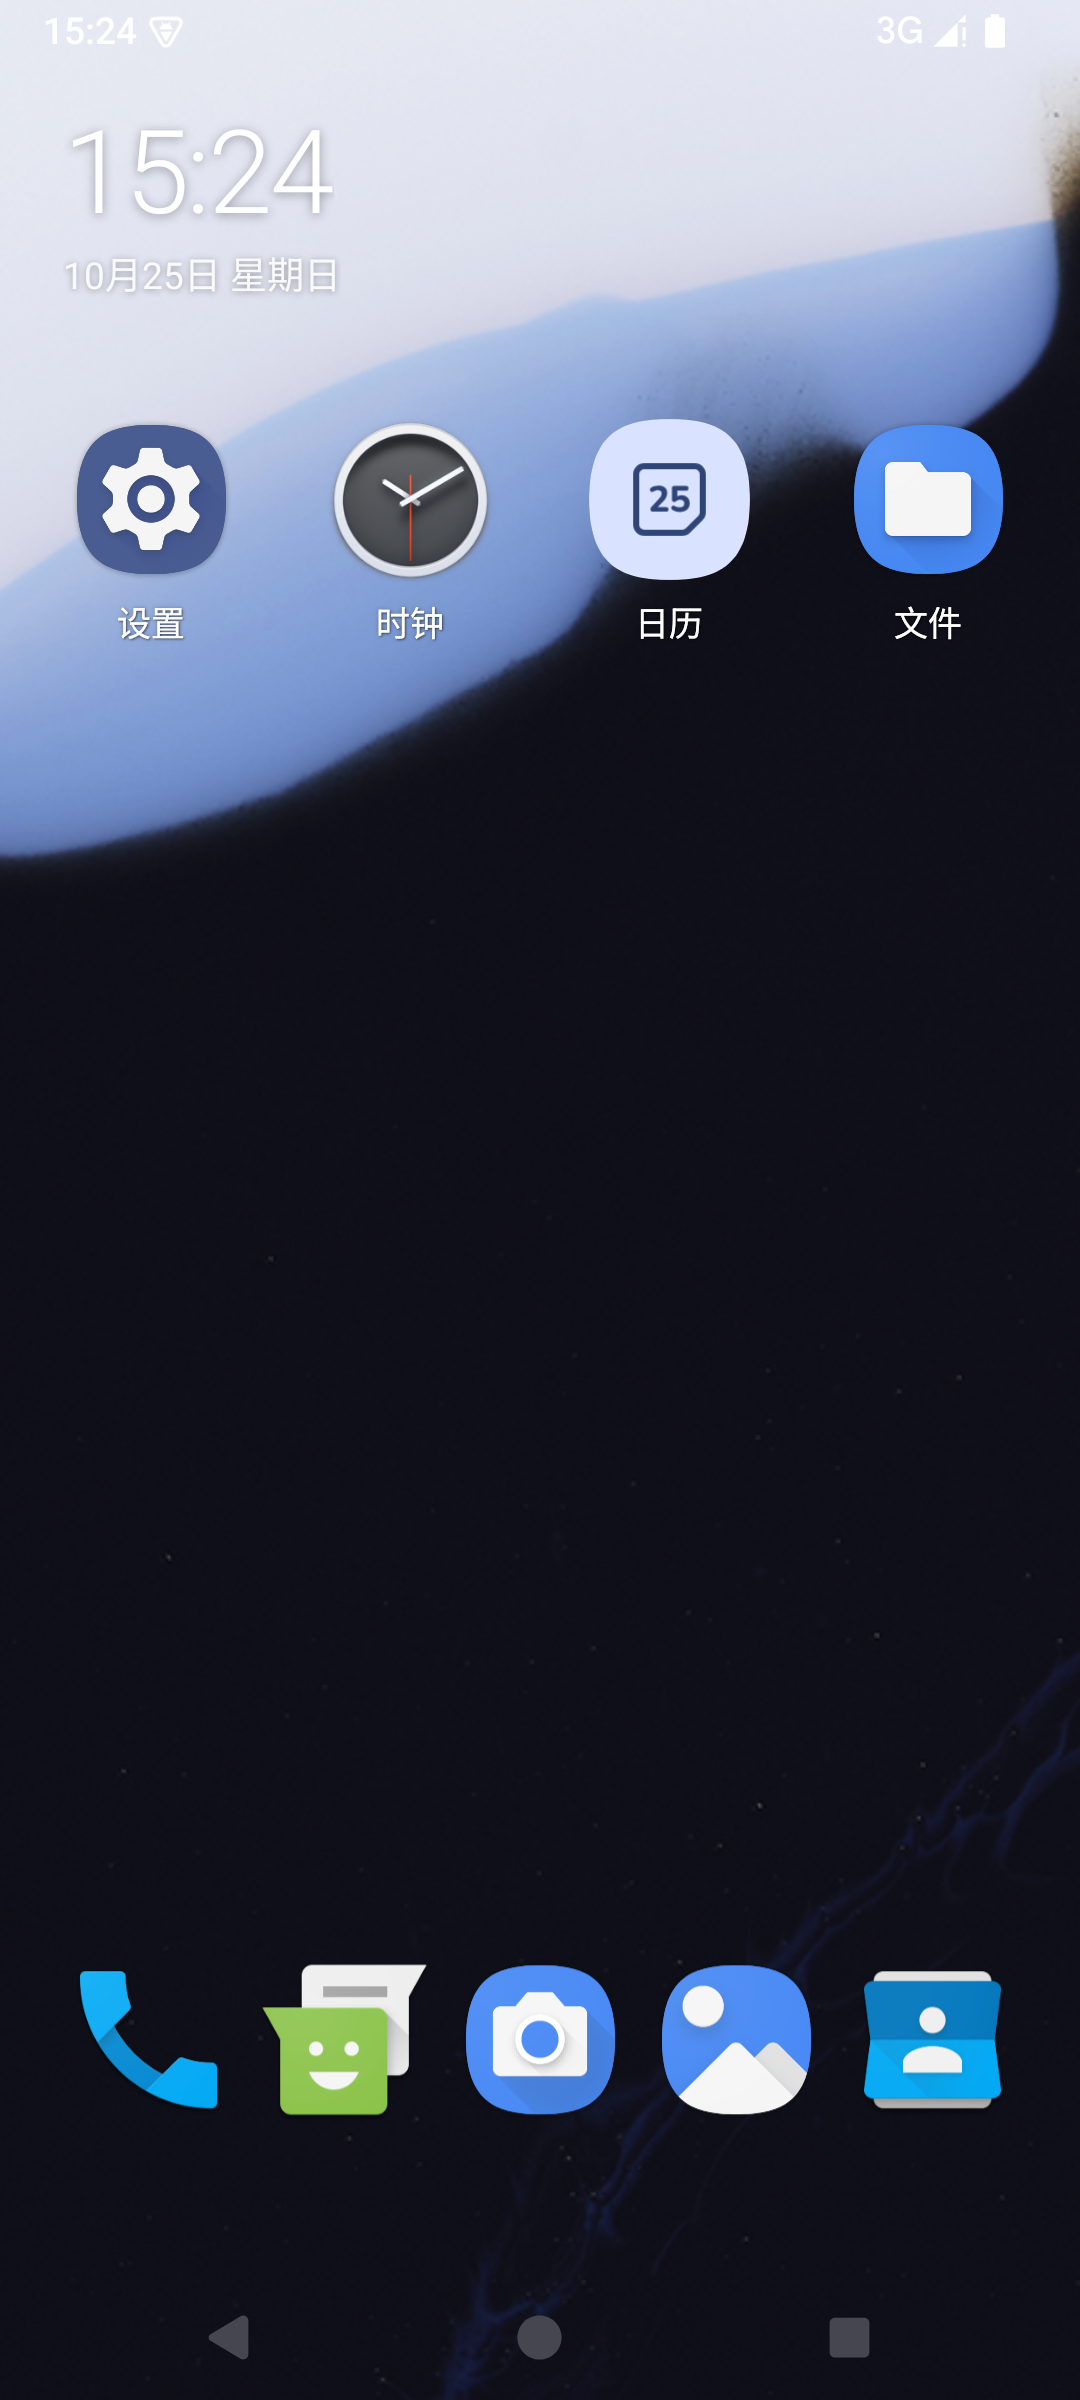
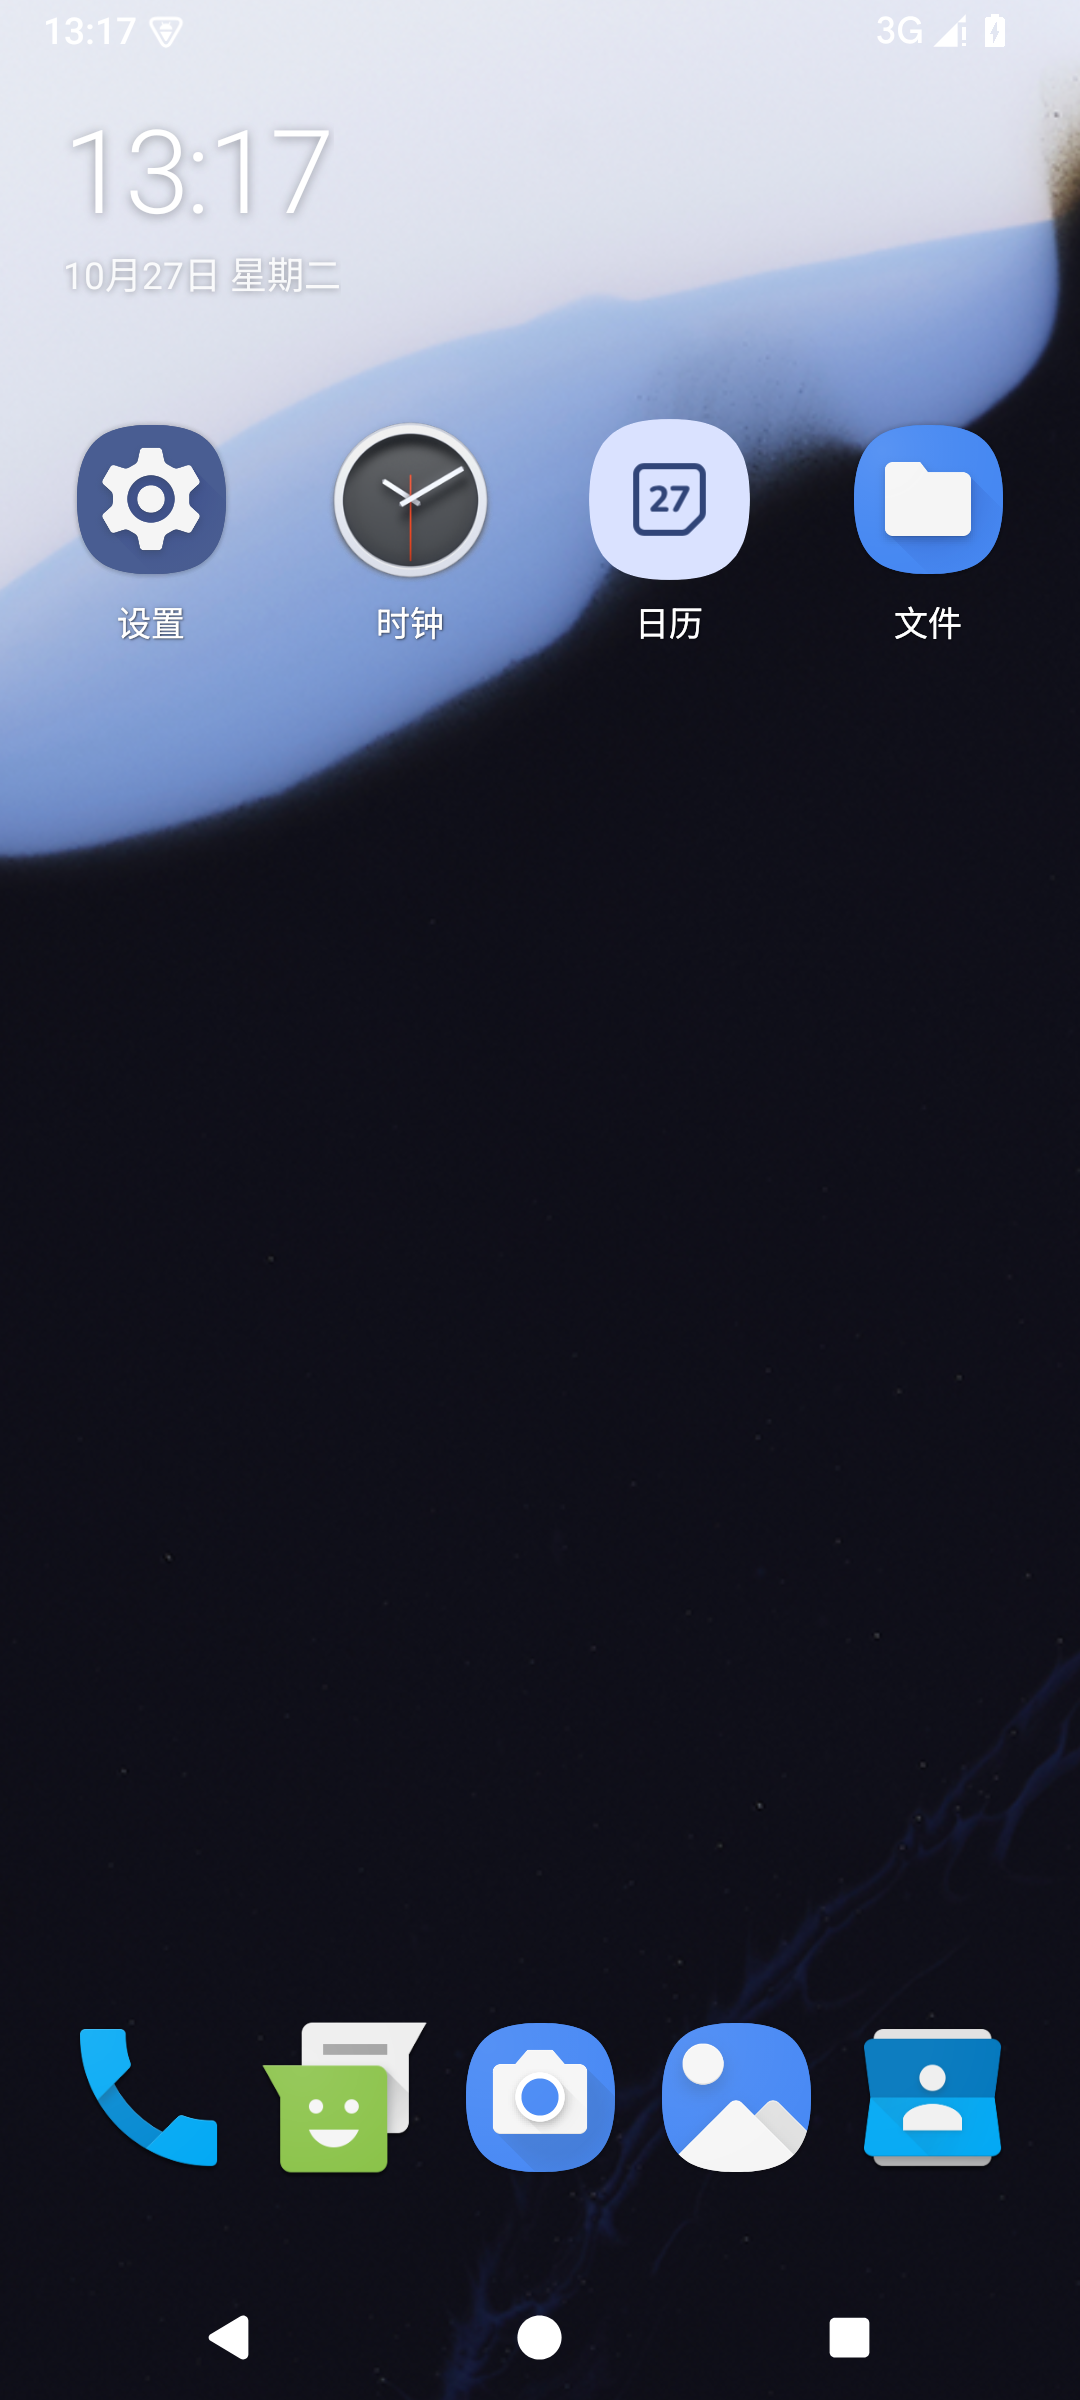
时钟: 跟随 Workspace 首页滚动

diff --git a/lawnchair/src/app/lawnchair/views/OneUiClockView.kt b/lawnchair/src/app/lawnchair/views/OneUiClockView.kt
@@ -1,0 +1,64 @@
+package app.lawnchair.views
+
+import android.content.Context
+import android.util.AttributeSet
+import android.view.View
+import android.view.ViewTreeObserver
+import android.widget.LinearLayout
+import com.android.launcher3.R
+
+/**
+ * One UI style clock / date block shown at the top of the first workspace page.
+ *
+ * This is still a plain view rather than an app widget (see
+ * docs/refactor/HANDOVER.md, "时钟 AppWidget"), but it already behaves like a
+ * page item: it is anchored to the left edge of page 0 and shifts horizontally
+ * with the workspace scroll, so swiping to another page carries it off screen
+ * and swiping back brings it in again.
+ *
+ * The offset is read once per frame in an [ViewTreeObserver.OnPreDrawListener]
+ * instead of a scroll listener so it also works when the workspace is restored
+ * to a page before the view is attached, and it stays in sync with the frame
+ * that is about to be drawn.
+ *
+ * Once the real widget host lands this class can be replaced by an
+ * [android.appwidget.AppWidgetHostView] without touching the launcher layout.
+ */
+class OneUiClockView @JvmOverloads constructor(
+    context: Context,
+    attrs: AttributeSet? = null,
+    defStyleAttr: Int = 0,
+) : LinearLayout(context, attrs, defStyleAttr) {
+
+    private var lastScrollX = Int.MIN_VALUE
+    private var preDrawListener: ViewTreeObserver.OnPreDrawListener? = null
+    private var preDrawObserver: ViewTreeObserver? = null
+
+    override fun onAttachedToWindow() {
+        super.onAttachedToWindow()
+        val ws = rootView.findViewById<View>(R.id.workspace) ?: return
+        syncTranslation(ws.scrollX)
+
+        preDrawObserver = viewTreeObserver.also { observer ->
+            preDrawListener = ViewTreeObserver.OnPreDrawListener {
+                val scrollX = ws.scrollX
+                if (scrollX != lastScrollX) {
+                    syncTranslation(scrollX)
+                }
+                true
+            }.also(observer::addOnPreDrawListener)
+        }
+    }
+
+    override fun onDetachedFromWindow() {
+        preDrawListener?.let { preDrawObserver?.removeOnPreDrawListener(it) }
+        preDrawListener = null
+        preDrawObserver = null
+        super.onDetachedFromWindow()
+    }
+
+    private fun syncTranslation(scrollX: Int) {
+        lastScrollX = scrollX
+        translationX = -scrollX.toFloat()
+    }
+}

diff --git a/docs/refactor/HANDOVER.md b/docs/refactor/HANDOVER.md
@@ -2,7 +2,7 @@
 
 > 更新时间：2026-10-27
 > 工作目录：`E:\OneDrive\家里台式\桌面\temp\OneUi_Desktop`
-> 分支：`main`，当前 HEAD `c57d1ba`（以 `git log` 为准）
+> 分支：`main`（HEAD 以 `git log` 为准）
 > 架构与设计取舍见 [ARCHITECTURE.md](./ARCHITECTURE.md)，SESL 取舍见 [SESL-DECISION.md](./SESL-DECISION.md)。
 
 ---
@@ -10,9 +10,9 @@
 ## 1. 一句话状态
 
 底层 Launcher3 / Lawnchair 15 已经能构建、能装、能当默认桌面；首屏 4×6 + 5 Dock
-+ 时钟覆盖层完成；应用抽屉的**底部搜索胶囊**（One UI 8.0 样式）已完成并在模拟器
-验证布局、三点菜单、键盘避让和输入态背景保持。下一步是时钟 AppWidget、抽屉分组、
-自定义排序、设置页卡片化和动画复刻。
++ **随页面滑动的时钟覆盖层**完成；应用抽屉的**底部搜索胶囊**（One UI 8.0 样式）已完成
+并在模拟器验证布局、三点菜单、键盘避让和输入态背景保持。下一步是时钟 AppWidget、
+抽屉分组、自定义排序、设置页卡片化和动画复刻。
 
 当前 APK：
 
@@ -34,14 +34,14 @@ build\outputs\apk\lawnWithQuickstepGithub\debug\*.apk
 | 应用身份 | `com.oneui.desktop`、显示名「OneUI 桌面」、无 `.debug` 后缀 | `build.gradle` |
 | 网格 | 4 列 × 6 行、Dock 5 位，DB 名 `launcher_6_4_5.db` | `device_profiles.xml`、`PreferenceManager.kt` |
 | 首屏 | 第 0 行留空给时钟；第 1 行 4 图标；Dock 5 图标 | `default_workspace_4x6.xml` |
-| 时钟 | 44sp 时间 + 14sp 中文日期覆盖层（非 AppWidget） | `lawnchair/res/layout/launcher.xml` |
+| 时钟 | 44sp 时间 + 14sp 中文日期，随 Workspace 页面滚动（非 AppWidget） | `lawnchair/res/layout/launcher.xml`、`OneUiClockView.kt` |
 | 视觉 | squircle 图标、单行抽屉标签、12/16/20/26dp 圆角、One UI 字号 | `config.xml`、`Shape.kt`、`Type.kt` |
 | 抽屉 | 底部停靠搜索胶囊、24dp 圆角、右端三点菜单、键盘弹出时上移 | `search_container_all_apps.xml`、`AllAppsSearchInput.kt`、`ActivityAllAppsContainerView.java` |
 | 文档 | 架构、验证记录、上游同步、交接说明 | `docs/refactor/` |
 
 ---
 
-## 3. 抽屉搜索栏的实现要点
+## 3. 抽屉搜索栏与时钟的实现要点
 
 1. **底部停靠**：`search_container_all_apps.xml` 根布局 `layout_alignParentBottom="true"`；
    `AllAppsContent` 的 header 去掉了 `layout_below`。
@@ -63,6 +63,22 @@ build\outputs\apk\lawnWithQuickstepGithub\debug\*.apk
 > 注意：`hideAppDrawerSearchBar` 打开时，列表不再预留底部空白，搜索栏本身由
 > `AllAppsSearchInput` 的 `isInvisible` / 高度 0 逻辑隐藏。
 
+### 3.1 时钟随页面滚动
+
+时钟在 `launcher.xml` 里仍然是 `DragLayer` 的子 View，但 `OneUiClockView` 会跟随
+第一页：
+
+1. 在 `onAttachedToWindow` 里找到 `R.id.workspace`，用
+   `ViewTreeObserver.OnPreDrawListener` 每帧读取 `workspace.scrollX`；
+2. `translationX = -scrollX`，滑到第二页时时钟被推出屏幕，滑回第一页时再推回来；
+3. 只在 `scrollX` 变化时更新，避免每帧重复写属性；
+4. 启动时如果恢复到非 0 页，pre-draw 会在首帧前修正；
+5. 用 pre-draw 而不是 `setOnScrollChangeListener`：实测后者在页面切换时不可靠。
+
+验证方法：给 Workspace 增加第二页（拖一个图标到右边缘，或临时改数据库的
+`favorites.screen`），左滑后时钟应完全离开屏幕，右滑回第一页后恢复；抽屉、长按菜单、
+最近任务不受影响。
+
 ---
 
 ## 4. 已知问题 / 风险
@@ -71,7 +87,7 @@ build\outputs\apk\lawnWithQuickstepGithub\debug\*.apk
 | --- | --- | --- |
 | GitHub 网络不稳定 | 无法 push / 拉取上游 | 网络恢复后 `git push origin main`；不要尝试 unshallow 旧 fork |
 | 模拟器偶尔退出 | 验证中断 | 用 `-no-window -no-snapshot -gpu off` 启动；截图用 `adb shell screencap` + `adb pull`（PowerShell 5.1 不要用 `>` 重定向二进制）；必要时重启 AVD |
-| 时钟仍是覆盖层 | 不随页面滚动、不能移除、不能换样式 | 迁移到 AppWidget（见 §6） |
+| 时钟不能当作页面子项 | 已随第一页滚动，但长按不能选中/移除，样式固定 | 迁移到 AppWidget（见 §6.2）；已实现方案 B 的滚动同步 |
 | 抽屉三点菜单只是入口 | 不是 One UI 的底部菜单 | 先复用 `Preferences` 路由，后续做 `OneUiDrawerMenuBottomSheet` |
 | 抽屉没有分组 / 排序 | 与 One UI 仍有差距 | 见 §6 的排序与分组里程碑 |
 | 键盘弹出时列表底部被键盘遮住 | 搜索结果区域变小 | 后续在 IME 显示时减少列表底部 padding，或滚动到结果 |
@@ -142,10 +158,11 @@ D:\AndroidDevelopment\Sdk\emulator\emulator.exe -avd medium_phone -gpu auto
 >   用户同意后再写入数据库；
 > - 方案 B：把时钟做成页面内自绘控件（随 Workspace 滚动、设置里可隐藏），
 >   等有系统签名或绑定流程后再升级为 AppWidget。
-> 当前代码仍是 `launcher.xml` 的覆盖层，属于方案 B 的过渡形态。
+> 当前代码是 `launcher.xml` 的 `OneUiClockView`，已完成方案 B 的页面滚动同步；
+> 剩余缺口是「可长按移除 / 可换样式」。
 
 目标：把 `launcher.xml` 里的 `@id/oneui_clock` 覆盖层替换为真正的 AppWidget，
-让它随 Workspace 页面滚动、可长按移除、可在「小部件」里换样式。
+让它可长按移除、可在「小部件」里换样式（随页面滚动已由 `OneUiClockView` 实现）。
 
 建议步骤：
 1. 新建 `lawnchair/src/app/lawnchair/widget/OneUiClockWidgetProvider.kt`（继承
@@ -184,6 +201,7 @@ D:\AndroidDevelopment\Sdk\emulator\emulator.exe -avd medium_phone -gpu auto
 
 - [ ] `:assembleLawnWithQuickstepGithubDebug` 成功，无新增 `error:`
 - [ ] 首屏 4×6、Dock 5、时钟时间/日期正常
+- [ ] 首页/第二页来回滑动时时钟跟随第一页移出/恢复，其他页面没有残影
 - [ ] 抽屉底部搜索胶囊：位置、圆角、提示文字、三点菜单
 - [ ] 键盘弹出后搜索栏在键盘上方，三点菜单可点
 - [ ] 搜索框隐藏开关：打开后列表不留底部空白

diff --git a/README.md b/README.md
@@ -9,7 +9,7 @@
 ## 当前状态（第一阶段骨架）
 
 - 桌面 **4 列 × 6 行**，Dock **5 位**
-- One UI 时钟 / 日期（大号 44sp 时间 + 中文日期）
+- One UI 时钟 / 日期（大号 44sp 时间 + 中文日期，随第一页滚动）
 - 首屏默认排布：设置 / 时钟 / 日历 / 文件 + 电话 / 短信 / 相机 / 图库 / 通讯录
 - 关闭 Lawnchair 的 smartspace 独立首屏页与 Dock 上方搜索条
 - 应用抽屉：底部 One UI 搜索胶囊 + 三点菜单，键盘弹出时自动上移
@@ -44,8 +44,9 @@ adb shell cmd package set-home-activity com.oneui.desktop/app.lawnchair.Lawnchai
 src/                 Launcher3 内核（Java）
 res/                 内核资源
 lawnchair/src/       Lawnchair 扩展（Kotlin）
+  app/lawnchair/views/OneUiClockView.kt   首屏时钟随页面滚动
 lawnchair/res/       One UI 资源覆盖（优先级高于 res/）
-  layout/launcher.xml              首屏根布局 + 时钟覆盖层
+  layout/launcher.xml              首屏根布局 + 时钟
   xml/default_workspace_4x6.xml    首屏默认排布
   xml/device_profiles.xml          4x6 / 5 Dock 网格定义
 docs/refactor/       架构、SESL 决策、交接文档、验证截图

diff --git a/CHANGELOG.md b/CHANGELOG.md
@@ -48,3 +48,21 @@
 - 新增 `docs/refactor/HANDOVER.md`（开发 / 交接状态、已知问题、下一步）。
 - `ARCHITECTURE.md` 增补 §5.5 键盘与三点菜单说明，更新验证记录和里程碑。
 - README 增加交接文档入口。
+
+## v0.9 — 时钟随页面滚动（2026-10-27）
+
+**首屏**
+
+- 新增 `app.lawnchair.views.OneUiClockView`，把时钟从固定覆盖层改为跟随第一页滑动：
+  在 `OnPreDrawListener` 里读取 `Workspace.getScrollX()`，用 `translationX = -scrollX`
+  定位；滑到第二页时推出屏幕，滑回第一页时恢复。
+- 改用 pre-draw 而不是 `setOnScrollChangeListener`：后者在页面切换时没有回调；
+  pre-draw 也能覆盖启动时恢复到非 0 页的情况。
+- 长按桌面、拖拽图标、抽屉、最近任务均不受影响；时钟仍不是可移除的 AppWidget，
+  `BIND_APPWIDGET` 签名权限限制见 `docs/refactor/HANDOVER.md` §6.2。
+
+**文档**
+
+- `ARCHITECTURE.md` §5.3 改写时钟实现，§7 增加翻页验证，§8 更新时钟里程碑。
+- `HANDOVER.md` 增补 §3.1 时钟滚动说明、已知问题与验收项。
+- 更新首屏截图 `docs/refactor/shots/home.png`。
